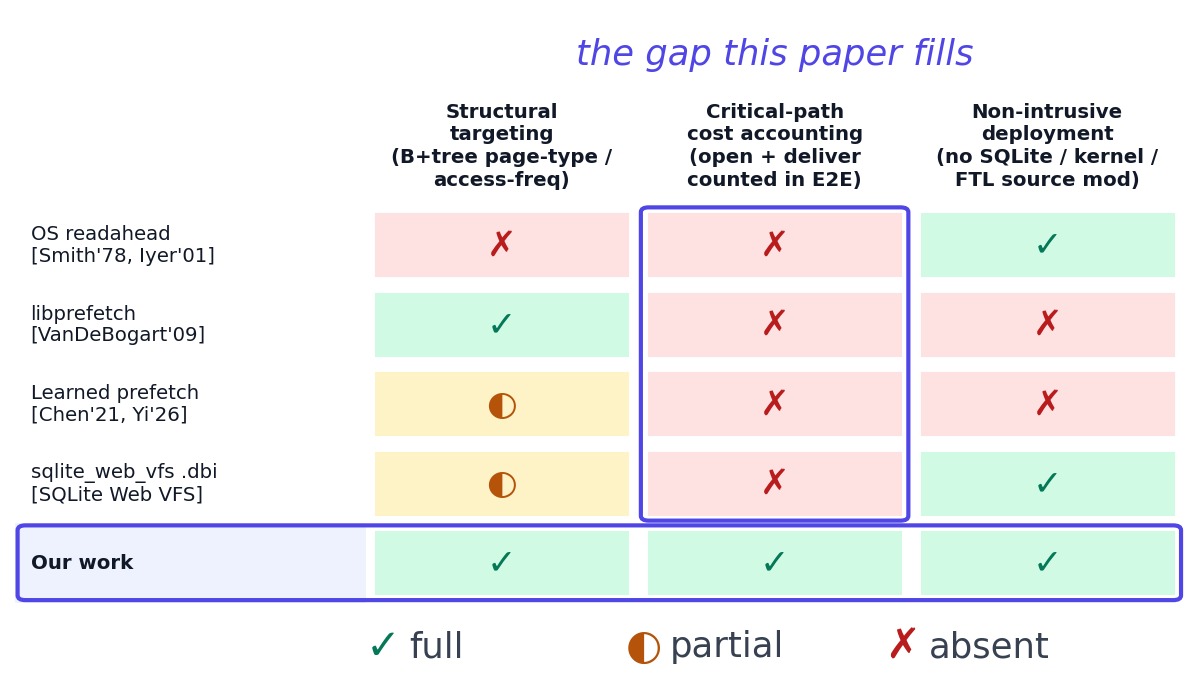
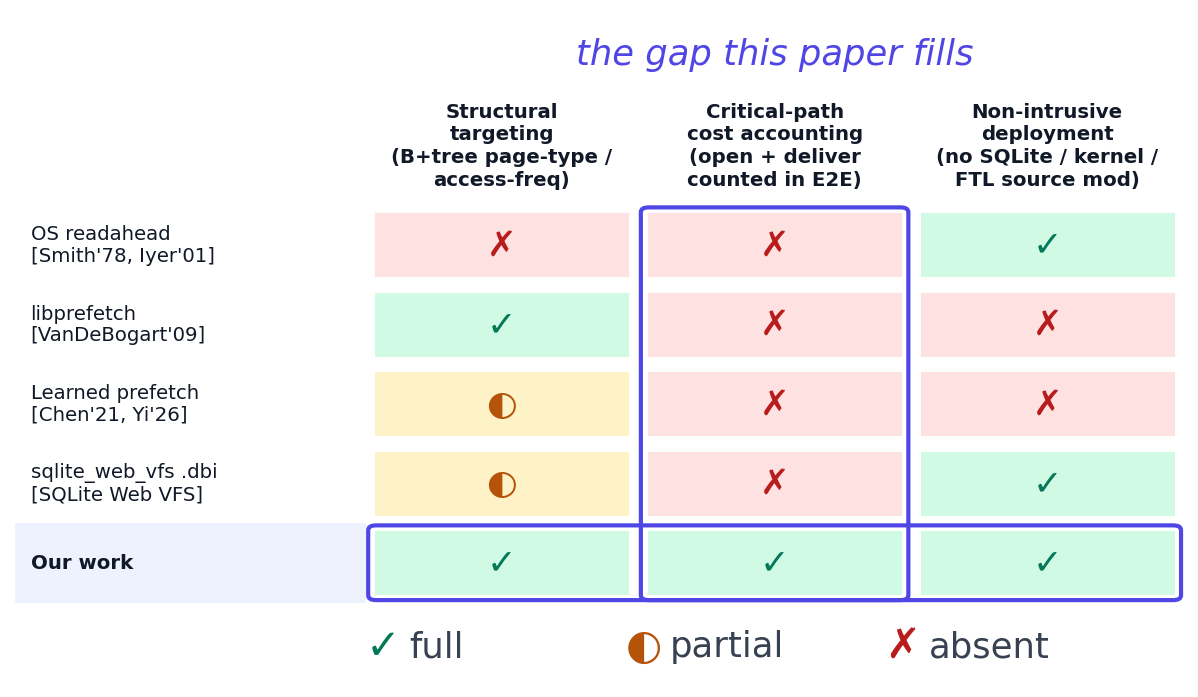
figs: keep the "Our work" label cell out of the row-highlight frame
Start the horizontal "Our work" outline after the label column so it frames only
the three capability cells, leaving the "Our work" text cell unframed. Revert the
vertical gap-column frame to span all rows (previous commit shrank it based on a
misread request).

Changed region(s): [[0.0, 0.7532, 0.3088, 0.8737], [0.525, 0.7231, 0.7721, 0.8436]]

diff --git a/figures/18_capability_matrix.py b/figures/18_capability_matrix.py
@@ -94,18 +94,16 @@ def main():
             ax.text(x + col_w / 2, y + row_h / 2, st["mark"], ha="center",
                     va="center", fontsize=17, color=st["ink"], zorder=2)
 
-    # --- highlight the "Ours" row with an outline spanning the whole grid ---
-    ax.add_patch(FancyBboxPatch((0.02, 0.03), lab_w + nc * col_w - 0.04, row_h - 0.06,
+    # --- highlight the "Ours" row with an outline over its capability cells ---
+    # (starts after the label column, so the "Our work" text cell stays unframed)
+    ax.add_patch(FancyBboxPatch((lab_w + 0.02, 0.03), nc * col_w - 0.04, row_h - 0.06,
                                 boxstyle="round,pad=0.0,rounding_size=0.06",
                                 facecolor="none", edgecolor="#4f46e5",
                                 linewidth=2.0, zorder=3))
 
     # --- highlight the cost-accounting COLUMN as the key gap (vertical frame) ---
-    # Spans only the prior-work rows (the actual gap); the "Our work" cell at the
-    # bottom fills that gap, so it is left outside this frame.
     gap_x = lab_w + 1 * col_w
-    ax.add_patch(FancyBboxPatch((gap_x + 0.02, row_h + 0.03), col_w - 0.04,
-                                (nr - 1) * row_h - 0.06,
+    ax.add_patch(FancyBboxPatch((gap_x + 0.02, 0.03), col_w - 0.04, nr * row_h - 0.06,
                                 boxstyle="round,pad=0.0,rounding_size=0.06",
                                 facecolor="none", edgecolor="#4f46e5",
                                 linewidth=2.0, zorder=3))